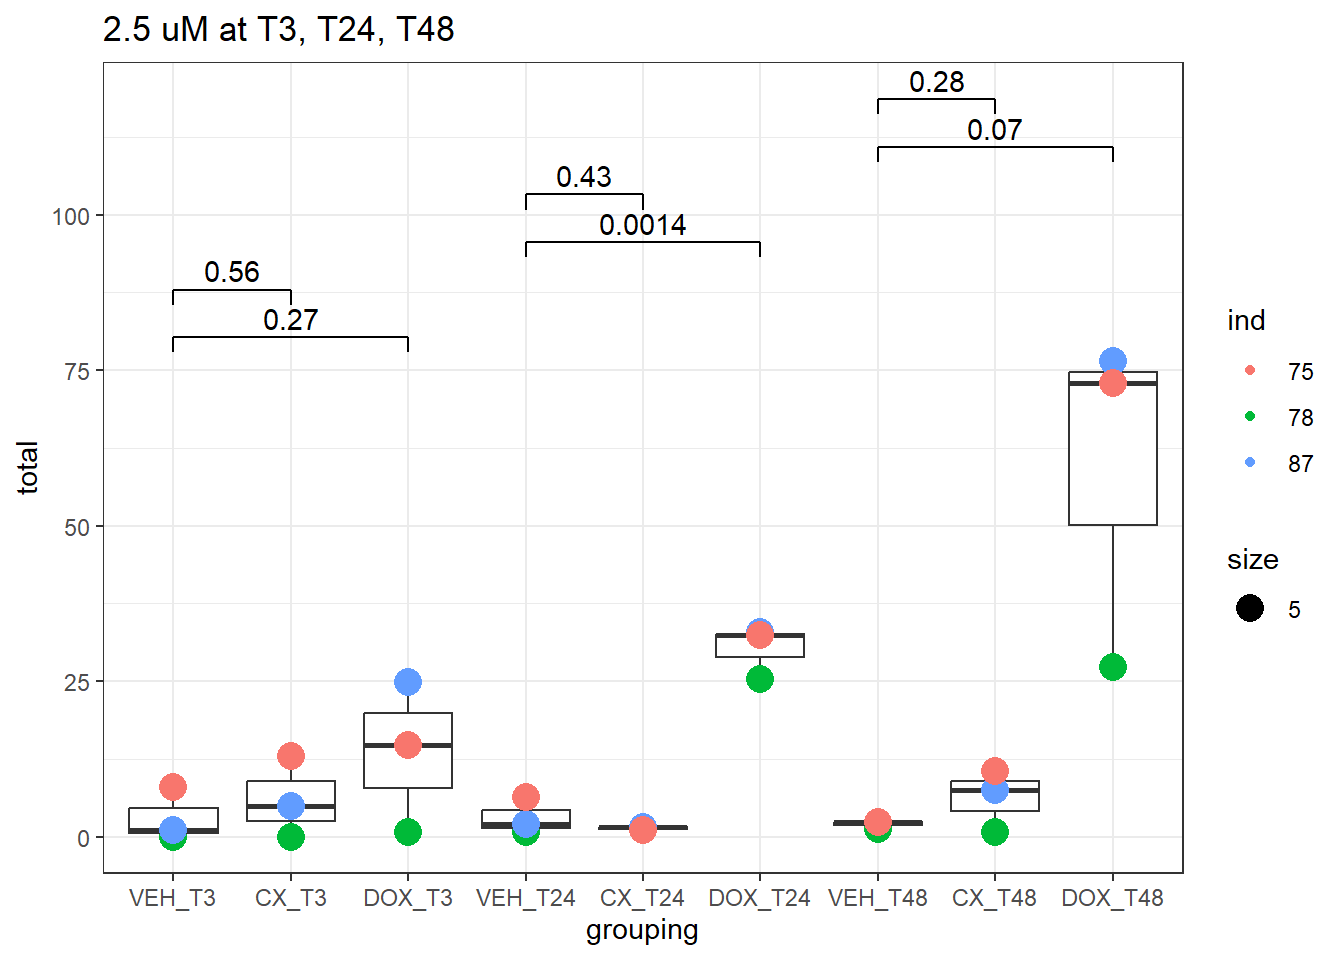
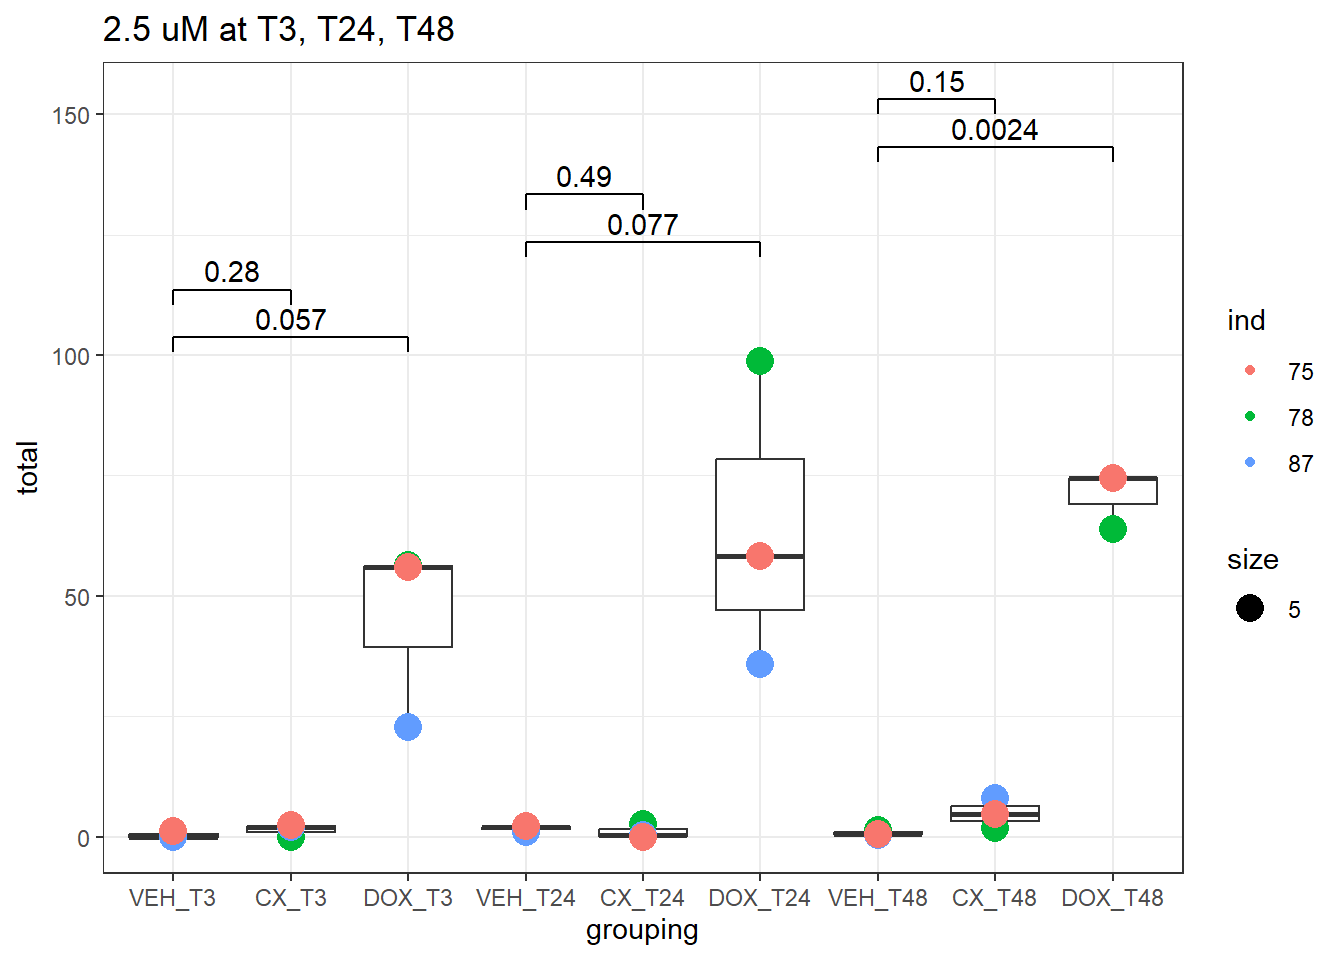
Build site.

diff --git a/docs/Image_processing.html b/docs/Image_processing.html
@@ -513,15 +513,15 @@ project makes it easier to run your code on other machines.</p>
 <div class="panel panel-default">
 <div class="panel-heading">
 <p class="panel-title">
-<a data-toggle="collapse" data-parent="#workflowr-checks" href="#strongRepositoryversionstrongahrefhttpsgithubcomreneeisnowhereCXrevisiontreea162dccf8c51f03619158d3c712400e6d494e02ftargetblanka162dcca">
+<a data-toggle="collapse" data-parent="#workflowr-checks" href="#strongRepositoryversionstrongahrefhttpsgithubcomreneeisnowhereCXrevisiontree8799992231038cd7b1352a180b3f1f549729923dtargetblank8799992a">
 <span class="glyphicon glyphicon-ok text-success"
 aria-hidden="true"></span> <strong>Repository version:</strong>
-<a href="https://github.com/reneeisnowhere/CX_revision/tree/a162dccf8c51f03619158d3c712400e6d494e02f" target="_blank">a162dcc</a>
+<a href="https://github.com/reneeisnowhere/CX_revision/tree/8799992231038cd7b1352a180b3f1f549729923d" target="_blank">8799992</a>
 </a>
 </p>
 </div>
 <div
[2 lines of base64/hex data omitted]
 class="panel-collapse collapse">
 <div class="panel-body">
 <p>
@@ -531,7 +531,7 @@ reproducibility.
 </p>
 <p>
 The results in this page were generated with repository version
-<a href="https://github.com/reneeisnowhere/CX_revision/tree/a162dccf8c51f03619158d3c712400e6d494e02f" target="_blank">a162dcc</a>.
+<a href="https://github.com/reneeisnowhere/CX_revision/tree/8799992231038cd7b1352a180b3f1f549729923d" target="_blank">8799992</a>.
 See the <em>Past versions</em> tab to see a history of the changes made
 to the R Markdown and HTML files.
 </p>
@@ -596,6 +596,40 @@ Message
 </tr>
 </thead>
 <tbody>
+<tr>
+<td>
+Rmd
+</td>
+<td>
+<a href="https://github.com/reneeisnowhere/CX_revision/blob/8799992231038cd7b1352a180b3f1f549729923d/analysis/Image_processing.Rmd" target="_blank">8799992</a>
+</td>
+<td>
+reneeisnowhere
+</td>
+<td>
+2025-11-10
+</td>
+<td>
+wflow_publish("analysis/Image_processing.Rmd")
+</td>
+</tr>
+<tr>
+<td>
+html
+</td>
+<td>
+<a href="https://rawcdn.githack.com/reneeisnowhere/CX_revision/2b057e827cdb9e7b466a51ac5e3676371697f2b5/docs/Image_processing.html" target="_blank">2b057e8</a>
+</td>
+<td>
+reneeisnowhere
+</td>
+<td>
+2025-11-10
+</td>
+<td>
+Build site.
+</td>
+</tr>
 <tr>
 <td>
 Rmd
@@ -778,6 +812,43 @@ area_summary_75 %&gt;%
   theme_bw()+
   theme(axis.text.x=element_text(angle=45, hjust=1))</code></pre>
 <p><img src="figure/Image_processing.Rmd/plotting-1.png" width="672" style="display: block; margin: auto;" /></p>
+<p>
+<button type="button" class="btn btn-default btn-xs btn-workflowr btn-workflowr-fig" data-toggle="collapse" data-target="#fig-plotting-1">
+Past versions of plotting-1.png
+</button>
+</p>
+<div id="fig-plotting-1" class="collapse">
+<div class="table-responsive">
+<table class="table table-condensed table-hover">
+<thead>
+<tr>
+<th>
+Version
+</th>
+<th>
+Author
+</th>
+<th>
+Date
+</th>
+</tr>
+</thead>
+<tbody>
+<tr>
+<td>
+<a href="https://github.com/reneeisnowhere/CX_revision/blob/2b057e827cdb9e7b466a51ac5e3676371697f2b5/docs/figure/Image_processing.Rmd/plotting-1.png" target="_blank">2b057e8</a>
+</td>
+<td>
+reneeisnowhere
+</td>
+<td>
+2025-11-10
+</td>
+</tr>
+</tbody>
+</table>
+</div>
+</div>
 <pre class="r"><code>kruskal.test(mean_area ~ interaction(tx, conc), data = combo_area)</code></pre>
 <pre><code>
     Kruskal-Wallis rank sum test
@@ -971,12 +1042,12 @@ File.append(line, masterFile);
     run(&quot;Clear Results&quot;);
 }</code></pre>
 <p>loading files for positive nuclei</p>
-<pre class="r"><code>Nuclei_gamma_count_75&lt;- read_delim(&quot;C:/Users/renee/Other_projects_data/CX_revision_data/Images_Evos/3-24-48_ERM/75-1/DAPI_counts/Master_summary_75_final.csv&quot;) %&gt;% na.omit()
+<pre class="r"><code>Nuclei_gamma_count_75&lt;- read_delim(&quot;C:/Users/renee/Other_projects_data/CX_revision_data/Images_Evos/3-24-48_ERM/75-1/DAPI_counts/Master_summary_75_final_1.csv&quot;) %&gt;% na.omit()
 
-Nuclei_gamma_count_78&lt;- read_delim(&quot;C:/Users/renee/Other_projects_data/CX_revision_data/Images_Evos/3-24-48_ERM/78-1/DAPI_counts/Master_summary_78_final.csv&quot;) %&gt;% na.omit()
+Nuclei_gamma_count_78&lt;- read_delim(&quot;C:/Users/renee/Other_projects_data/CX_revision_data/Images_Evos/3-24-48_ERM/78-1/DAPI_counts/Master_summary_78_final_1.csv&quot;) %&gt;% na.omit()
 
 
-Nuclei_gamma_count_87&lt;- read_delim(&quot;C:/Users/renee/Other_projects_data/CX_revision_data/Images_Evos/3-24-48_ERM/87-1/DAPI_counts/Master_summary_87_final.csv&quot;) %&gt;% na.omit()
+Nuclei_gamma_count_87&lt;- read_delim(&quot;C:/Users/renee/Other_projects_data/CX_revision_data/Images_Evos/3-24-48_ERM/87-1/DAPI_counts/Master_summary_87_final_1.csv&quot;) %&gt;% na.omit()
 
 Ind_75_table &lt;- Nuclei_gamma_count_75 %&gt;% 
   separate(Sample, into= c(&quot;time&quot;,&quot;conc&quot;,&quot;ind&quot;,&quot;tx&quot;, &quot;focus&quot;,&quot;DAPI&quot;,&quot;number&quot;), sep=&quot;_&quot;) %&gt;% 
@@ -1050,6 +1121,43 @@ combined_if_table %&gt;%
       theme_bw()+
       ggtitle(&quot;2.5 uM at T3, T24, T48&quot;)</code></pre>
 <p><img src="figure/Image_processing.Rmd/combine%20for%20graphs-1.png" width="672" style="display: block; margin: auto;" /></p>
+<p>
+<button type="button" class="btn btn-default btn-xs btn-workflowr btn-workflowr-fig" data-toggle="collapse" data-target="#fig-no-spaces-combine-for-graphs-1">
+Past versions of "combine for graphs-1.png"
+</button>
+</p>
+<div id="fig-no-spaces-combine-for-graphs-1" class="collapse">
+<div class="table-responsive">
+<table class="table table-condensed table-hover">
+<thead>
+<tr>
+<th>
+Version
+</th>
+<th>
+Author
+</th>
+<th>
+Date
+</th>
+</tr>
+</thead>
+<tbody>
+<tr>
+<td>
+<a href="https://github.com/reneeisnowhere/CX_revision/blob/2b057e827cdb9e7b466a51ac5e3676371697f2b5/docs/figure/Image_processing.Rmd/combine for graphs-1.png" target="_blank">2b057e8</a>
+</td>
+<td>
+reneeisnowhere
+</td>
+<td>
+2025-11-10
+</td>
+</tr>
+</tbody>
+</table>
+</div>
+</div>
 <pre class="r"><code>combined_if_table %&gt;% 
   dplyr::filter(conc!=&quot;2.5um&quot;) %&gt;% 
   ggplot(., aes(x=grouping,y=total))+
@@ -1070,6 +1178,43 @@ combined_if_table %&gt;%
       ggtitle(&quot;0.1um and 0.5 uM at T3, T24, T48&quot;)+
   theme(axis.text.x=element_text(angle=45,hjust=1))</code></pre>
 <p><img src="figure/Image_processing.Rmd/first%20table-1.png" width="672" style="display: block; margin: auto;" /></p>
+<p>
+<button type="button" class="btn btn-default btn-xs btn-workflowr btn-workflowr-fig" data-toggle="collapse" data-target="#fig-no-spaces-first-table-1">
+Past versions of "first table-1.png"
+</button>
+</p>
+<div id="fig-no-spaces-first-table-1" class="collapse">
+<div class="table-responsive">
+<table class="table table-condensed table-hover">
+<thead>
+<tr>
+<th>
+Version
+</th>
+<th>
+Author
+</th>
+<th>
+Date
+</th>
+</tr>
+</thead>
+<tbody>
+<tr>
+<td>
+<a href="https://github.com/reneeisnowhere/CX_revision/blob/2b057e827cdb9e7b466a51ac5e3676371697f2b5/docs/figure/Image_processing.Rmd/first table-1.png" target="_blank">2b057e8</a>
+</td>
+<td>
+reneeisnowhere
+</td>
+<td>
+2025-11-10
+</td>
+</tr>
+</tbody>
+</table>
+</div>
+</div>
 <br>
 <p>
 <button type="button" class="btn btn-default btn-workflowr btn-workflowr-sessioninfo" data-toggle="collapse" data-target="#workflowr-sessioninfo" style="display: block;">
